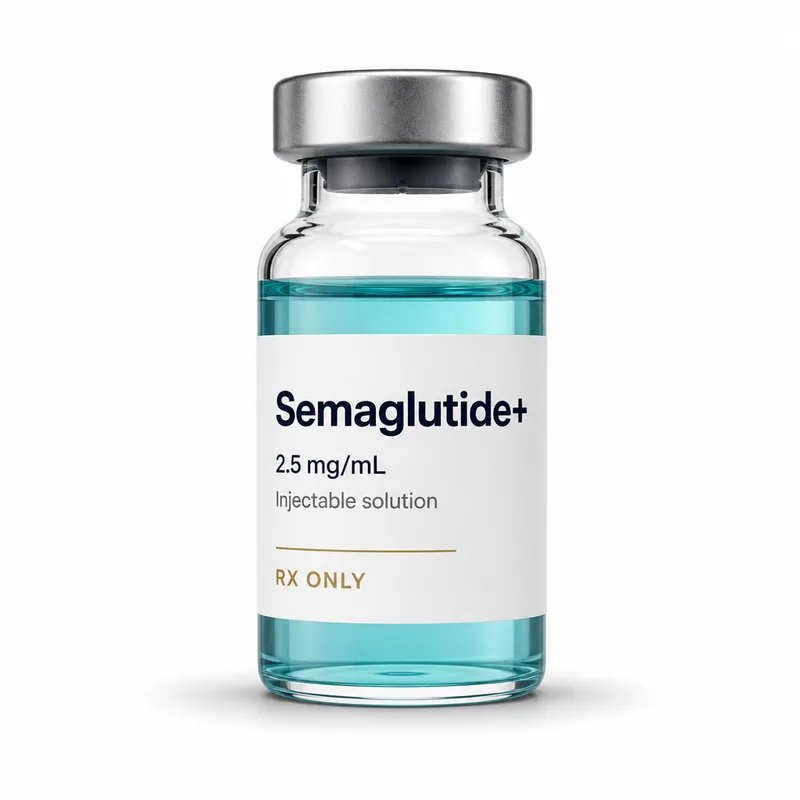
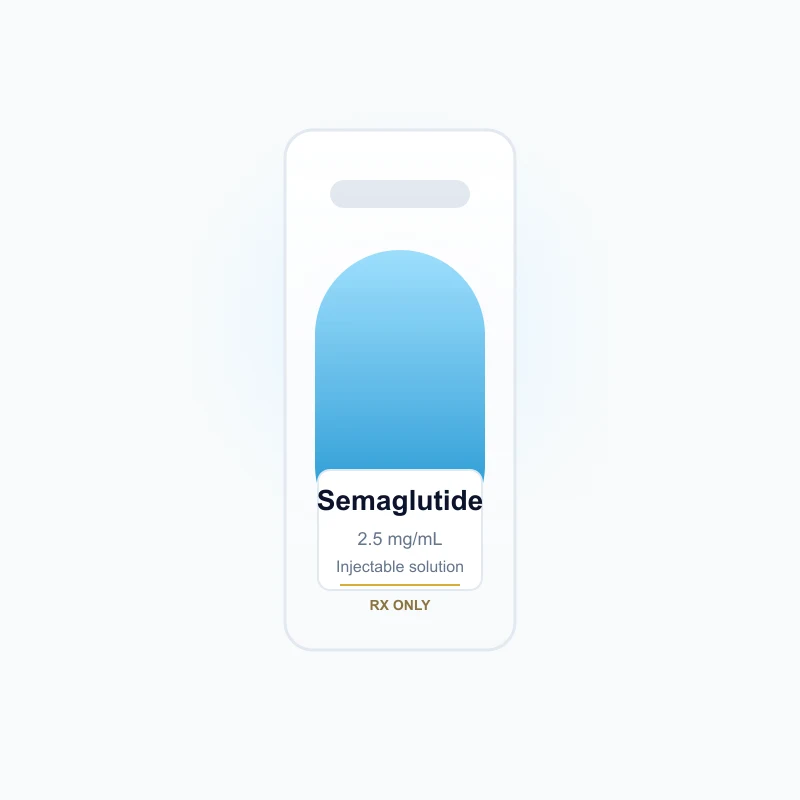
Fix clipped weight labels site-wide, refresh vials, and upgrade how-it-works images

Changed region(s): [[0.25, 0.0625, 0.75, 0.9062]]

diff --git a/components/product/ProductCard.tsx b/components/product/ProductCard.tsx
@@ -1,25 +1,22 @@
 import Link from "next/link";
 import { AddToCartButton } from "@/components/cart/AddToCartButton";
+import { ProductCategoryLabel } from "@/components/product/ProductCategoryLabel";
 import { VialArt } from "@/components/product/VialArt";
 import { formatUsd, type Product } from "@/lib/products";
 
 export function ProductCard({ product }: { product: Product }) {
   return (
-    <article className="group flex flex-col overflow-hidden rounded-2xl border border-border bg-card transition-shadow hover:shadow-[var(--shadow-lift)]">
+    <article className="group flex min-w-0 flex-col rounded-2xl border border-border bg-card transition-shadow hover:shadow-[var(--shadow-lift)]">
       <Link
         href={product.path}
         tabIndex={-1}
         aria-hidden
-        className="grid h-52 place-items-center border-b border-border bg-gradient-to-b from-secondary to-white px-4 py-3"
+        className="grid h-52 place-items-center overflow-hidden rounded-t-2xl border-b border-border bg-gradient-to-b from-secondary to-white px-4 py-3"
       >
         <VialArt product={product} className="max-h-44 transition-transform duration-300 group-hover:scale-[1.03]" />
       </Link>
-      <div className="flex flex-1 flex-col p-5">
-        <p className="flex min-w-0 flex-wrap items-center gap-x-2 gap-y-0.5 text-xs font-semibold tracking-wide text-cat-weight">
-          <span className="size-1.5 shrink-0 rounded-full bg-cat-weight" aria-hidden />
-          <span className="break-words">{product.category}</span>
-        </p>
-        <h3 className="mt-2 text-xl">
+      <div className="flex min-w-0 flex-1 flex-col p-5">
+        <ProductCategoryLabel category={product.category} />        <h3 className="mt-2 text-xl">
           <Link href={product.path} className="hover:underline">
             {product.name}
           </Link>

diff --git a/app/treatments/weight-management/[slug]/page.tsx b/app/treatments/weight-management/[slug]/page.tsx
@@ -4,6 +4,7 @@ import { notFound } from "next/navigation";
 import { Check } from "lucide-react";
 import { AddToCartButton } from "@/components/cart/AddToCartButton";
 import { ProductCard } from "@/components/product/ProductCard";
+import { ProductCategoryLabel } from "@/components/product/ProductCategoryLabel";
 import { VialArt } from "@/components/product/VialArt";
 import { FaqList } from "@/components/ui/FaqList";
 import { Breadcrumbs, DemoNotice } from "@/components/ui/DemoNotice";
@@ -48,10 +49,7 @@ export default async function ProductPage({ params }: { params: Promise<Params> 
           </p>
         </div>
         <div className="min-w-0">
-          <p className="flex items-center gap-2 text-xs font-semibold tracking-wide text-cat-weight uppercase">
-            <span className="size-1.5 rounded-full bg-cat-weight" />
-            {product.category}
-          </p>
+          <ProductCategoryLabel category={product.category} className="mt-0" />
           <h1 className="mt-2 text-4xl">{product.headline}</h1>
           <p className="mt-4 text-lg leading-relaxed text-muted-foreground">{product.tagline}</p>
           <p className="font-display mt-6 text-3xl">{formatUsd(product.price)}/month</p>

diff --git a/components/cart/CartDrawer.tsx b/components/cart/CartDrawer.tsx
@@ -101,8 +101,8 @@ export function CartDrawer() {
                   <VialArt product={suggested} showGlow={false} className="size-full" />
                 </div>
                 <div className="min-w-0 flex-1">
-                  <p className="truncate text-sm font-semibold">{suggested.name}</p>
-                  <p className="truncate text-xs text-muted-foreground">{suggested.category}</p>
+                  <p className="text-sm font-semibold">{suggested.name}</p>
+                  <p className="text-xs text-muted-foreground">{suggested.category}</p>
                 </div>
                 <p className="text-sm font-semibold">{formatUsd(suggested.price, 2)}</p>
                 <button

diff --git a/lib/products.ts b/lib/products.ts
@@ -41,7 +41,7 @@ export const products: Product[] = [
     form: "Injectable solution",
     strength: "2.5 mg/mL",
     price: 149,
-    category: "Weight Management",
+    category: "Weight care",
     short:
       "A clinician-guided weight-management program built around your history, not a one-size plan.",
     headline: "Semaglutide",
@@ -101,7 +101,7 @@ export const products: Product[] = [
     form: "Injectable solution",
     strength: "5 mg/mL",
     price: 249,
-    category: "Weight Management",
+    category: "Weight care",
     short:
       "A dual-pathway weight-management program for people reviewed and approved by a licensed clinician.",
     headline: "Tirzepatide",

diff --git a/app/globals.css b/app/globals.css
@@ -707,6 +707,31 @@
     border-radius: 1rem;
   }
 
+  .product-category {
+    display: flex;
+    align-items: flex-start;
+    gap: 0.5rem;
+    min-width: 0;
+    font-size: 0.75rem;
+    font-weight: 600;
+    line-height: 1.35;
+    color: var(--color-cat-weight);
+  }
+
+  .product-category__dot {
+    margin-top: 0.35rem;
+    flex-shrink: 0;
+    width: 0.375rem;
+    height: 0.375rem;
+    border-radius: 9999px;
+    background: var(--color-cat-weight);
+  }
+
+  .product-category__text {
+    min-width: 0;
+    overflow-wrap: anywhere;
+  }
+
   @media (min-width: 640px) {
     .browse-section__grid--2 {
       grid-template-columns: repeat(2, minmax(0, 1fr));

diff --git a/components/product/ProductCategoryLabel.tsx b/components/product/ProductCategoryLabel.tsx
@@ -1,0 +1,13 @@
+type ProductCategoryLabelProps = {
+  category: string;
+  className?: string;
+};
+
+export function ProductCategoryLabel({ category, className = "" }: ProductCategoryLabelProps) {
+  return (
+    <p className={`product-category ${className}`.trim()}>
+      <span className="product-category__dot" aria-hidden />
+      <span className="product-category__text">{category}</span>
+    </p>
+  );
+}
